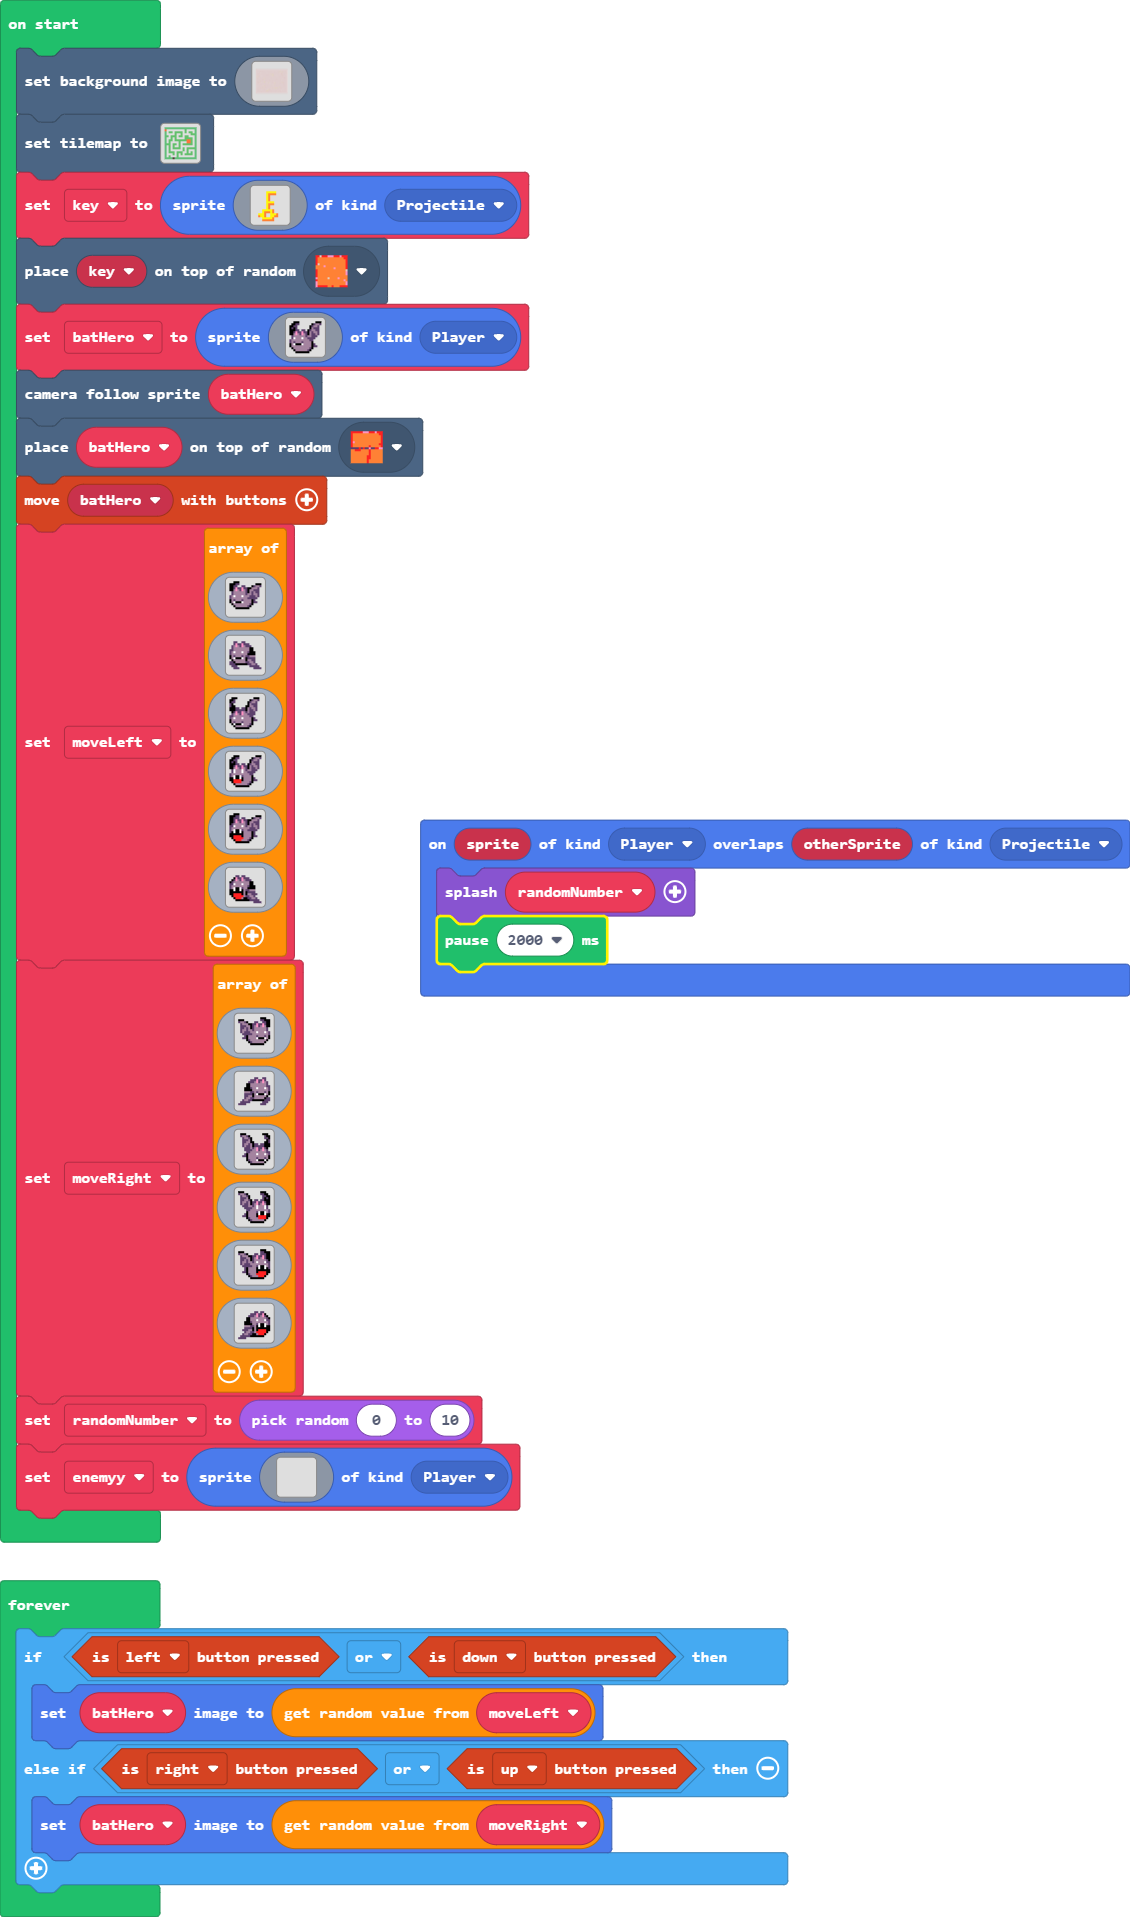
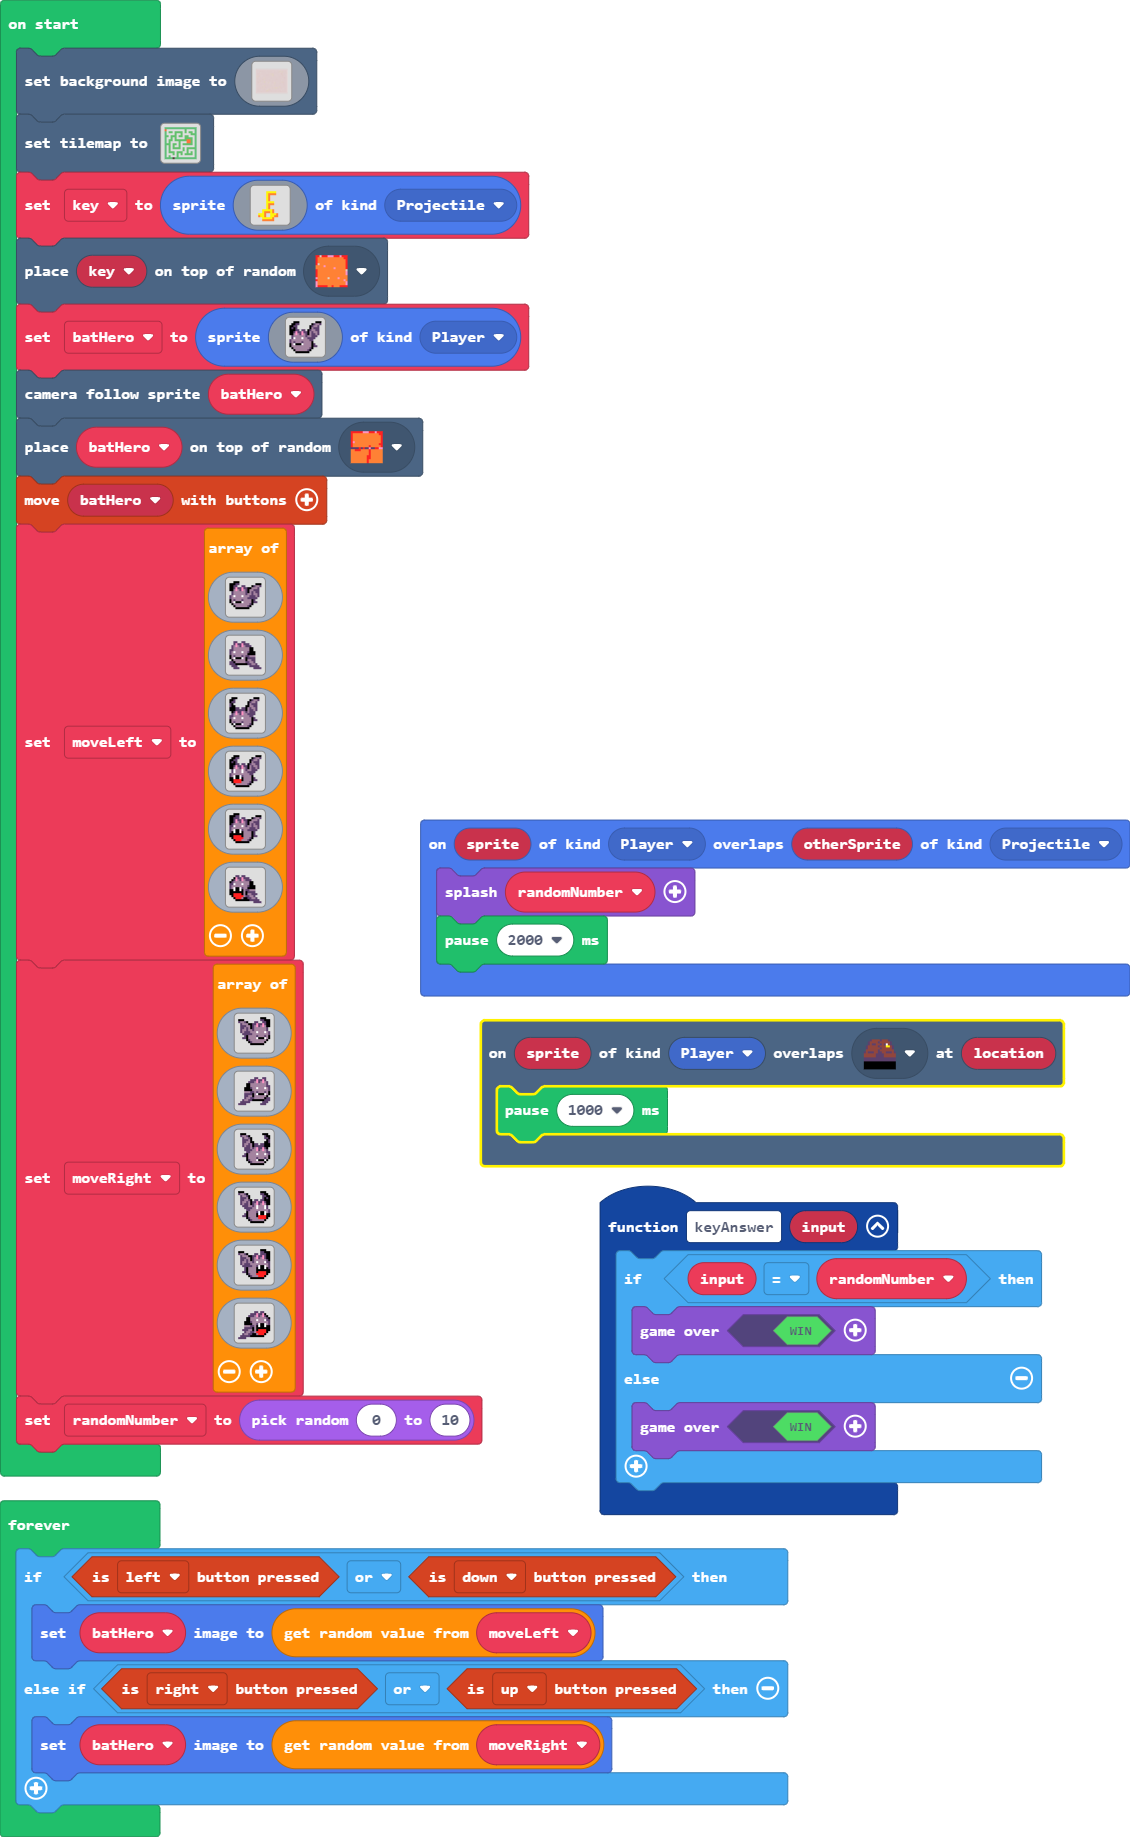
Update main.blocks, main.ts, tilemap.g.jres, tilemap.g.ts

Changed region(s): [[0.0, 0.0, 1.0, 0.9929], [0.0619, 0.5895, 0.1549, 0.6516], [0.0619, 0.3723, 0.1239, 0.4344]]

diff --git a/main.ts b/main.ts
@@ -1,3 +1,13 @@
+function keyAnswer (input2: number) {
+    if (input2 == randomNumber) {
+        game.over(true)
+    } else {
+        game.over(true)
+    }
+}
+scene.onOverlapTile(SpriteKind.Player, assets.tile`myTile7`, function (sprite, location) {
+    pause(1000)
+})
 sprites.onOverlap(SpriteKind.Player, SpriteKind.Projectile, function (sprite, otherSprite) {
     game.splash(randomNumber)
     pause(2000)
@@ -387,24 +397,6 @@ img`
     `
 ]
 randomNumber = randint(0, 10)
-let enemyy = sprites.create(img`
-    . . . . . . . . . . . . . . . . 
-    . . . . . . . . . . . . . . . . 
-    . . . . . . . . . . . . . . . . 
-    . . . . . . . . . . . . . . . . 
-    . . . . . . . . . . . . . . . . 
-    . . . . . . . . . . . . . . . . 
-    . . . . . . . . . . . . . . . . 
-    . . . . . . . . . . . . . . . . 
-    . . . . . . . . . . . . . . . . 
-    . . . . . . . . . . . . . . . . 
-    . . . . . . . . . . . . . . . . 
-    . . . . . . . . . . . . . . . . 
-    . . . . . . . . . . . . . . . . 
-    . . . . . . . . . . . . . . . . 
-    . . . . . . . . . . . . . . . . 
-    . . . . . . . . . . . . . . . . 
-    `, SpriteKind.Player)
 forever(function () {
     if (controller.left.isPressed() || controller.down.isPressed()) {
         batHero.setImage(moveLeft._pickRandom())

diff --git a/tilemap.g.ts b/tilemap.g.ts
@@ -152,7 +152,7 @@ namespace myTiles {
 2 . 2 2 2 . 2 2 2 . . 2 . 2 . 2 
 2 . . . 2 . 2 . 2 . 2 2 2 2 . 2 
 2 . 2 . . . 2 . . . . . . . . 2 
-2 2 2 2 2 2 2 2 2 2 2 2 2 2 2 2 
+2 2 2 2 . 2 2 2 2 2 2 2 2 2 2 2 
 `, [myTiles.transparency16,myTiles.tile2,myTiles.tile3,myTiles.tile4,myTiles.tile6,myTiles.tile1,myTiles.tile5,myTiles.tile8,myTiles.tile9], TileScale.Sixteen);
         }
         return null;
